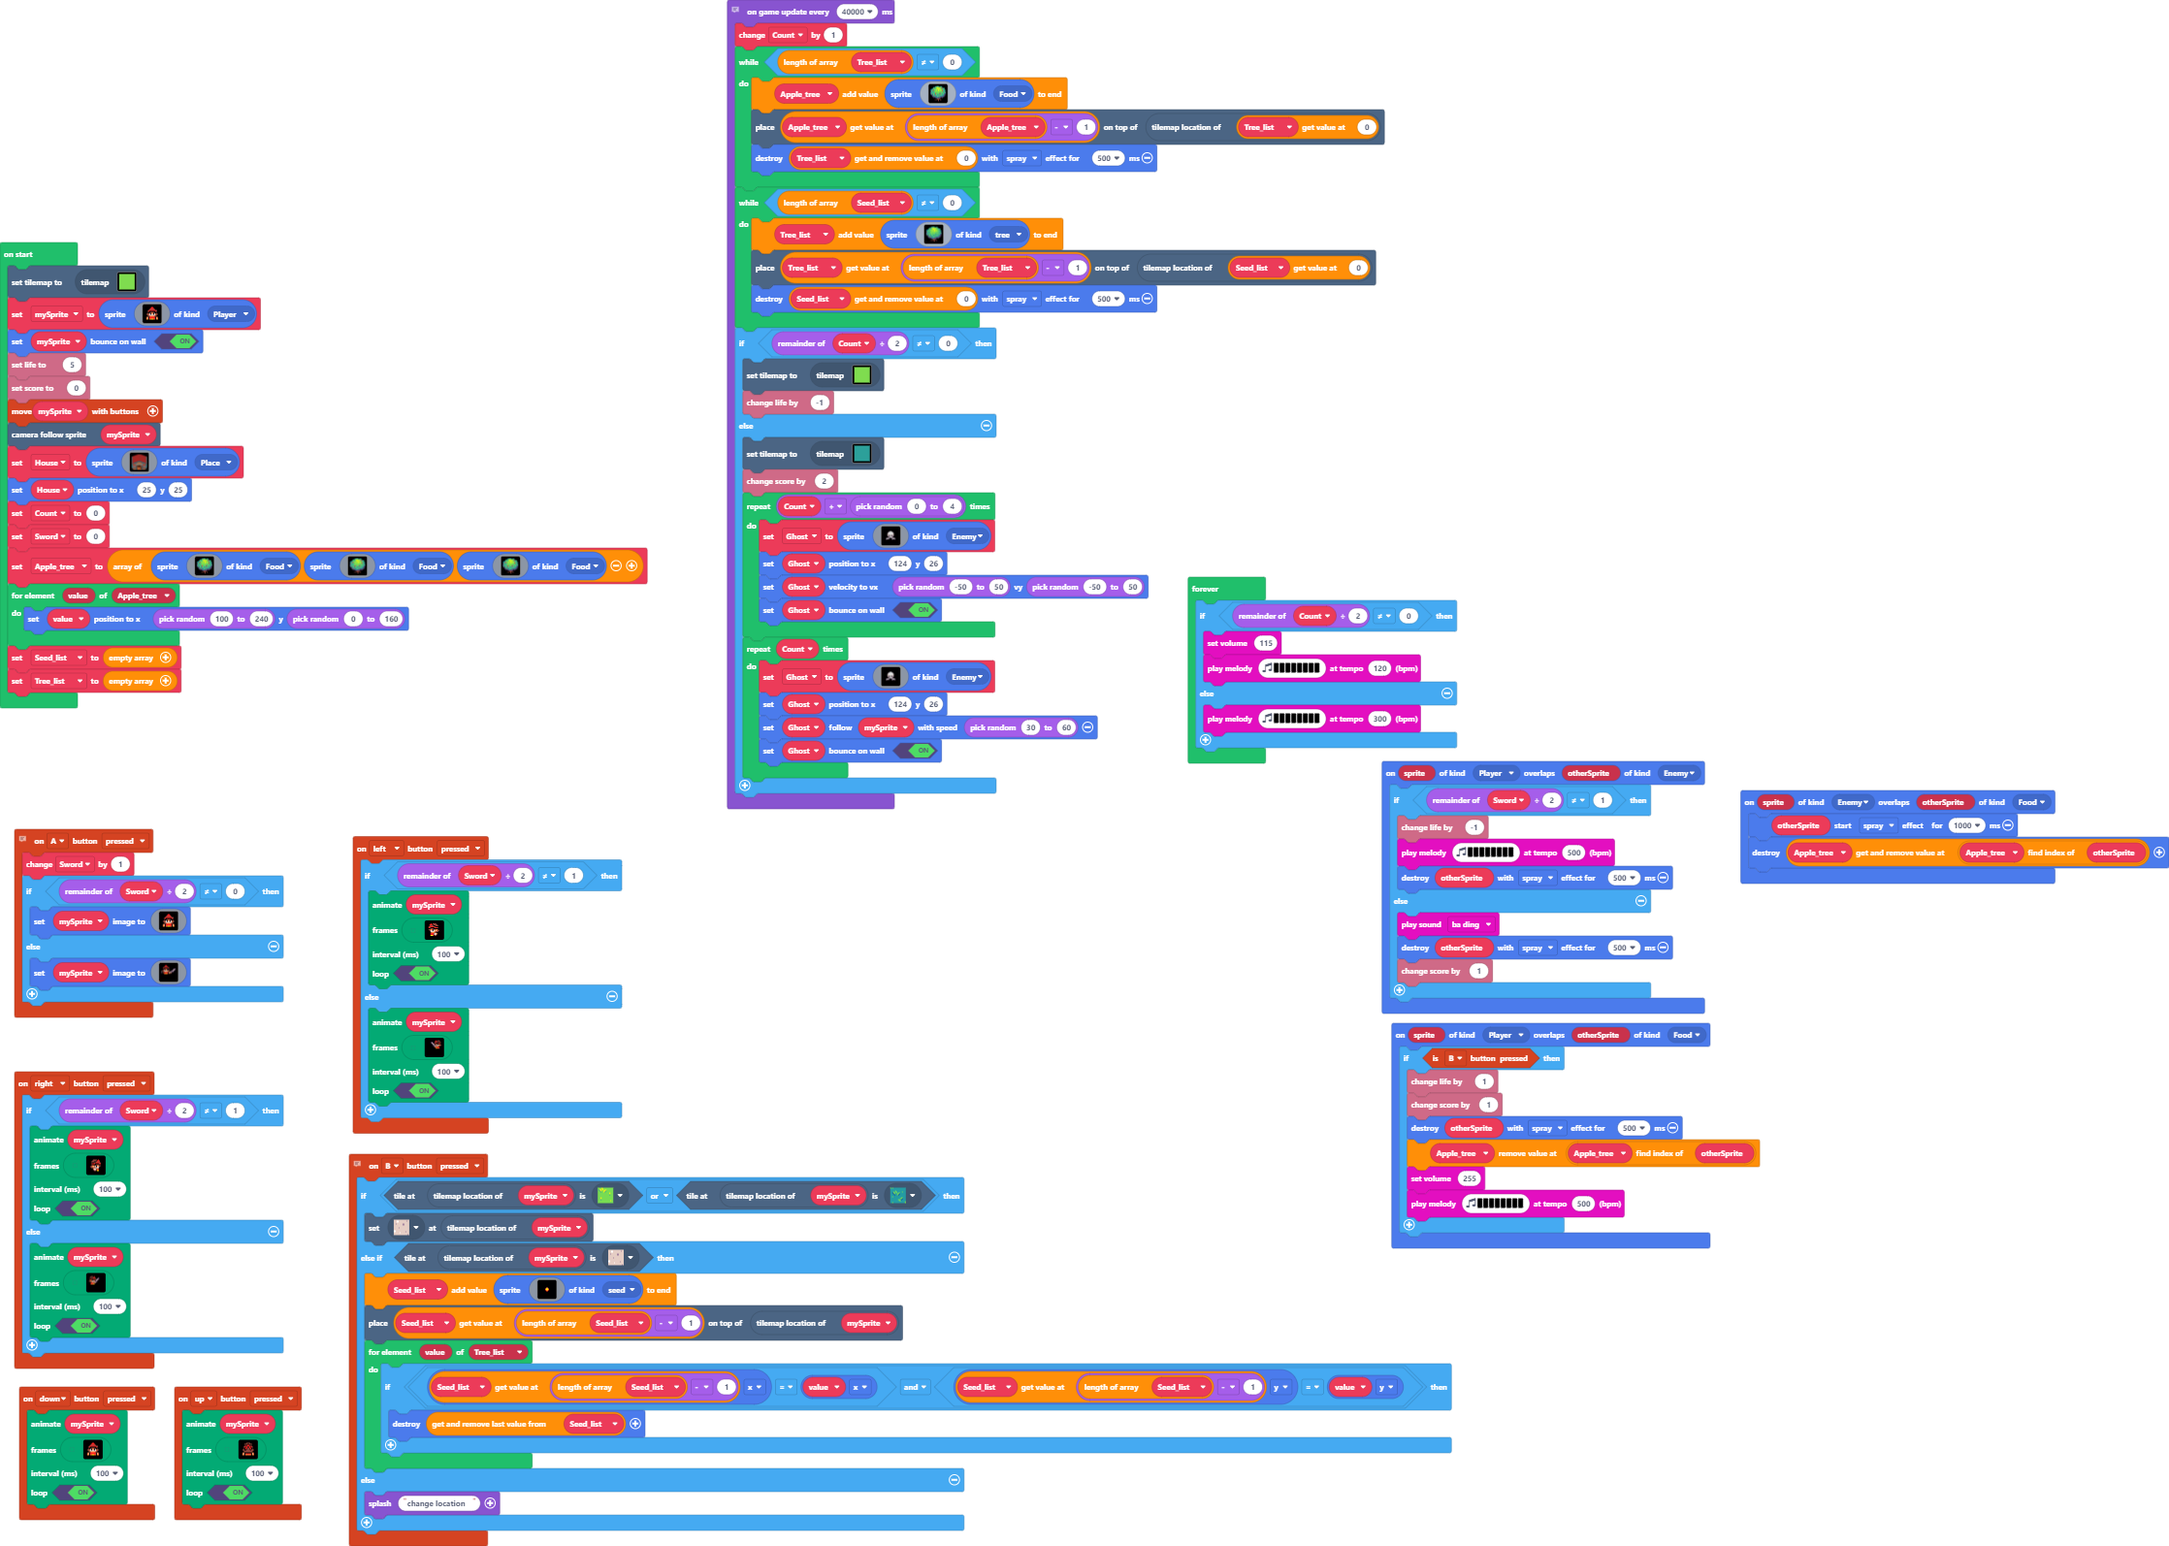
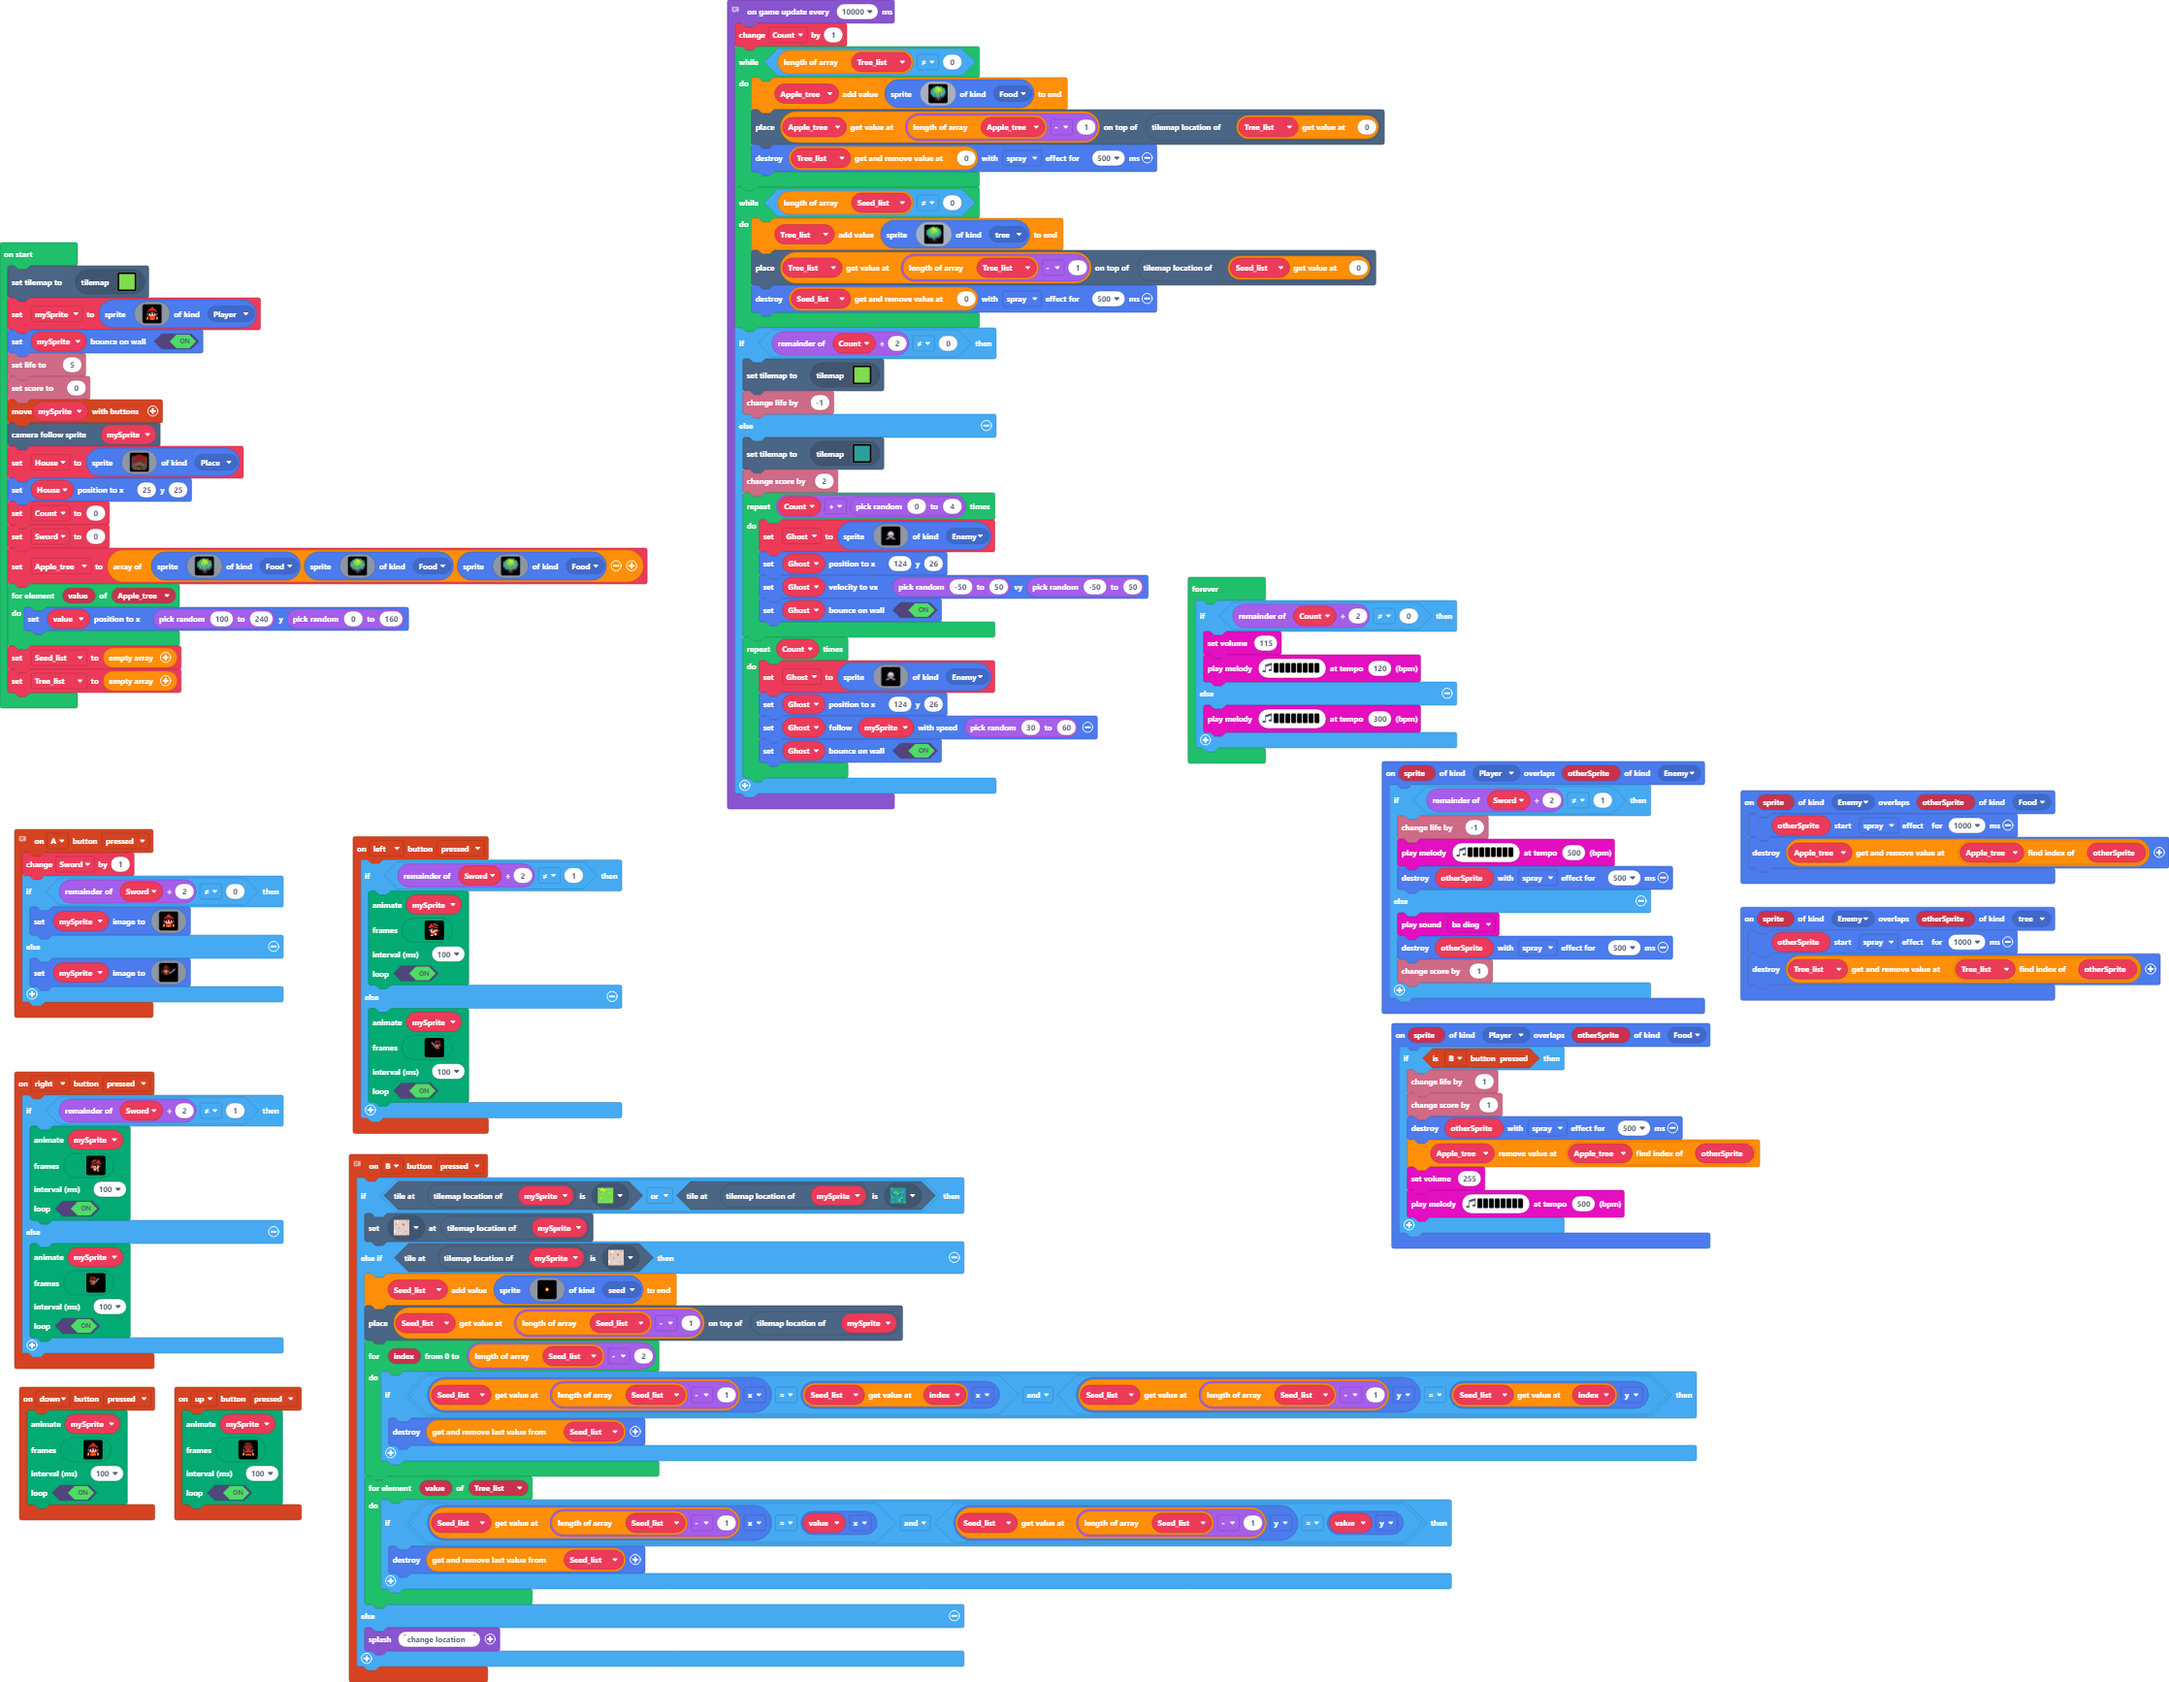
new

Changed region(s): [[0.0, 0.0, 1.0, 1.0], [0.0, 0.123, 0.3086, 0.4611]]

diff --git a/main.ts b/main.ts
@@ -104,6 +104,11 @@ controller.B.onEvent(ControllerButtonEvent.Pressed, function () {
             . . . . . . . . . . . . . . . . 
             `, SpriteKind.seed))
         tiles.placeOnTile(Seed_list[Seed_list.length - 1], mySprite.tilemapLocation())
+        for (let index = 0; index <= Seed_list.length - 2; index++) {
+            if (Seed_list[Seed_list.length - 1].x == Seed_list[index].x && Seed_list[Seed_list.length - 1].y == Seed_list[index].y) {
+                Seed_list.pop().destroy()
+            }
+        }
         for (let value of Tree_list) {
             if (Seed_list[Seed_list.length - 1].x == value.x && Seed_list[Seed_list.length - 1].y == value.y) {
                 Seed_list.pop().destroy()
@@ -625,6 +630,10 @@ sprites.onOverlap(SpriteKind.Player, SpriteKind.Food, function (sprite, otherSpr
         music.playMelody("- - - F C5 - - - ", 500)
     }
 })
+sprites.onOverlap(SpriteKind.Enemy, SpriteKind.tree, function (sprite, otherSprite) {
+    otherSprite.startEffect(effects.spray, 1000)
+    Tree_list.removeAt(Tree_list.indexOf(otherSprite)).destroy()
+})
 sprites.onOverlap(SpriteKind.Player, SpriteKind.Enemy, function (sprite, otherSprite) {
     if (Sword % 2 != 1) {
         info.changeLifeBy(-1)
@@ -834,7 +843,7 @@ forever(function () {
 })
 // days and nights
 // 80s = 1day
-game.onUpdateInterval(40000, function () {
+game.onUpdateInterval(10000, function () {
     Count += 1
     while (Tree_list.length != 0) {
         Apple_tree.push(sprites.create(img`
